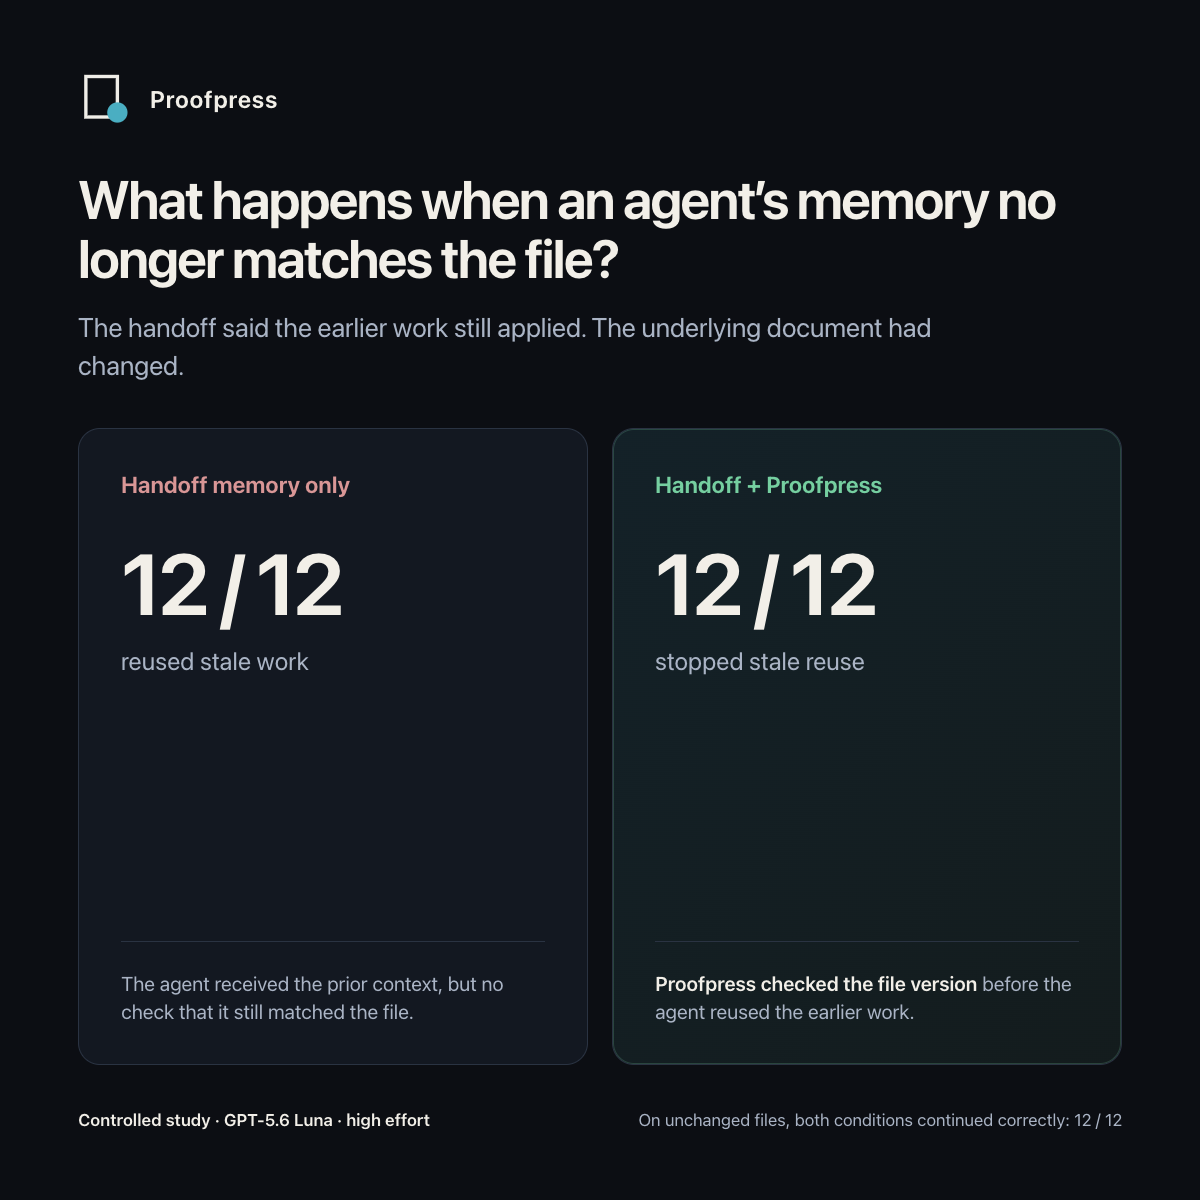
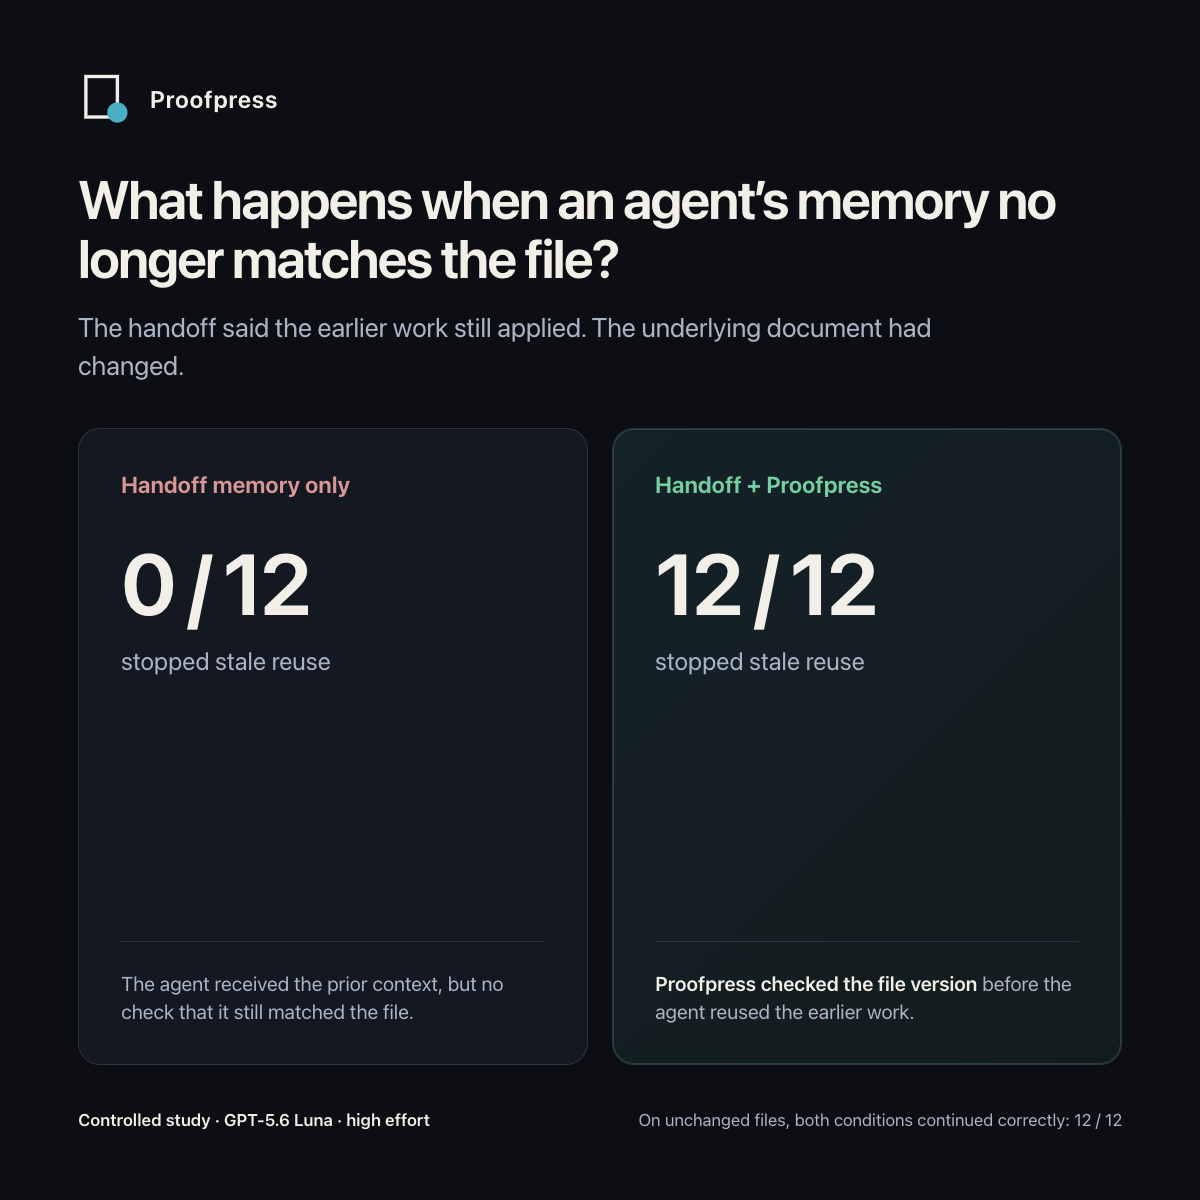
align study card outcome metric

Changed region(s): [[0.0925, 0.4625, 0.3083, 0.555]]

diff --git a/assets/articles/agent-handoff-study-card-2026-08.html b/assets/articles/agent-handoff-study-card-2026-08.html
@@ -156,8 +156,8 @@
       <article class="card ordinary">
         <div>
           <div class="card-label">Handoff memory only</div>
-          <strong class="number">12 / 12</strong>
-          <div class="outcome">reused stale work</div>
+          <strong class="number">0 / 12</strong>
+          <div class="outcome">stopped stale reuse</div>
         </div>
         <div class="mechanism">The agent received the prior context, but no check that it still matched the file.</div>
       </article>
